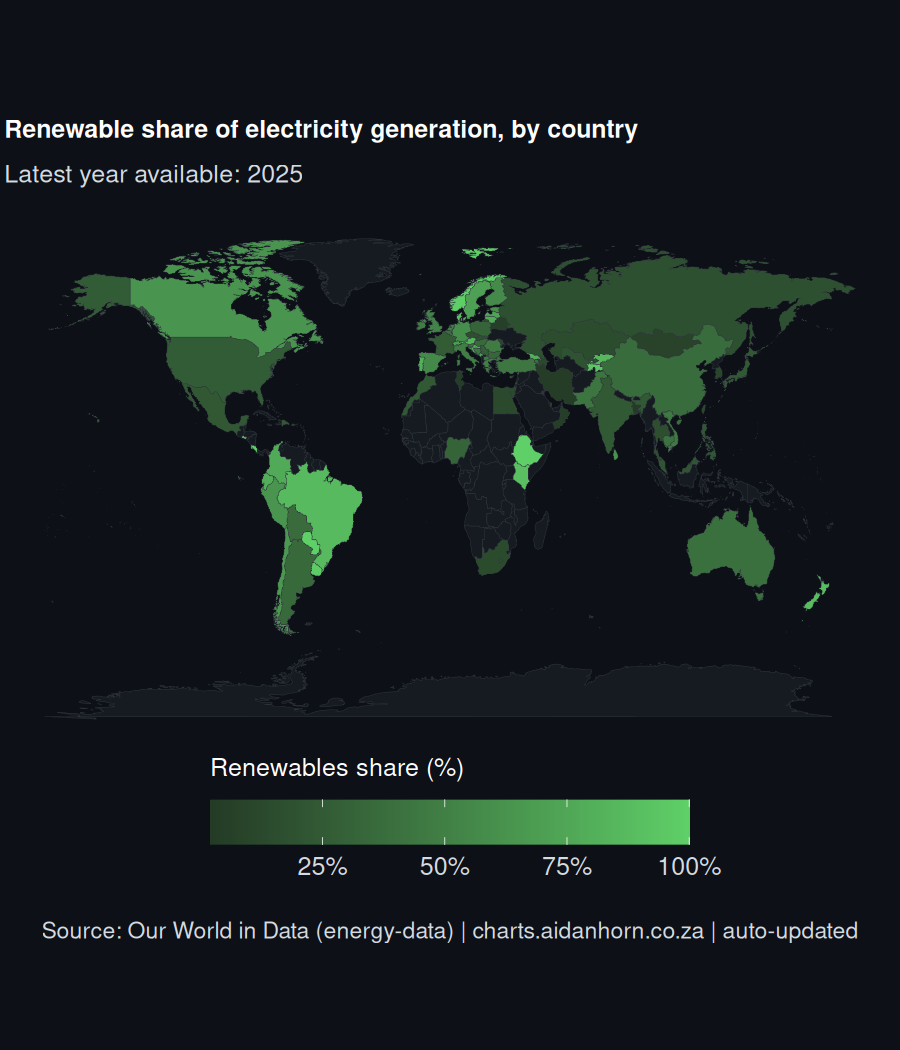
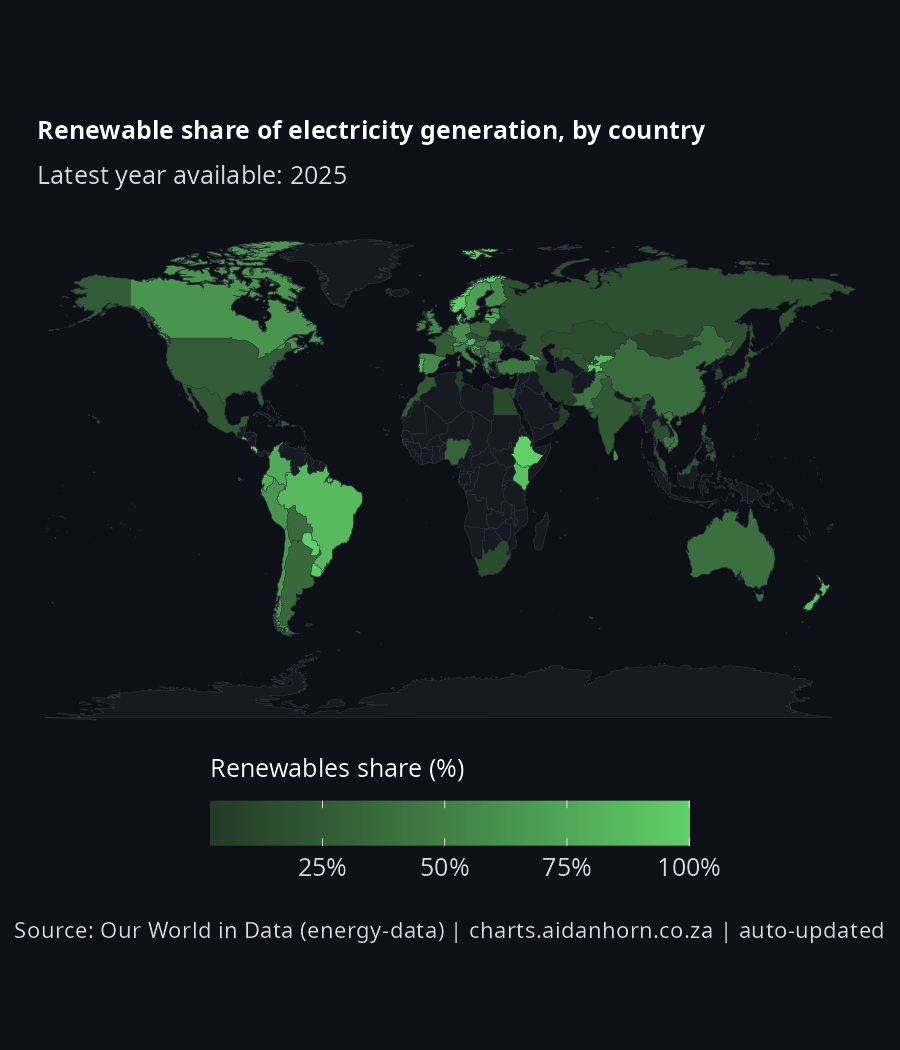
✨ feat(commodities): add 4 new FRED charts
- add soybeans, aluminum, cocoa, and cotton pillars (scripts,
  pages, assets, CI workflow steps)
- move pillar docs into per-section READMEs; slim root README
- extend build_fred_chart prefix/suffix for cotton (cents/lb)
- add build_goldapi_chart helper and gold/silver scripts (not yet
  wired into CI or nav)
- refresh climate and energy chart assets

diff --git a/commodities/aluminum.html b/commodities/aluminum.html
@@ -2,7 +2,7 @@
 <html lang="en">
 <head>
 <meta charset="utf-8">
-<title>Corn — Data Charts</title>
+<title>Aluminum — Data Charts</title>
 <meta name="viewport" content="width=device-width, initial-scale=1">
 <meta name="color-scheme" content="dark">
 <link rel="stylesheet" href="../assets/style.css">
@@ -30,16 +30,16 @@
   <a href="copper.html">Copper</a>
   <a href="natgas.html">Natural Gas</a>
   <a href="wheat.html">Wheat</a>
-  <a href="corn.html" class="active">Corn</a>
+  <a href="corn.html">Corn</a>
   <a href="soybeans.html">Soybeans</a>
-  <a href="aluminum.html">Aluminum</a>
+  <a href="aluminum.html" class="active">Aluminum</a>
   <a href="cocoa.html">Cocoa</a>
   <a href="cotton.html">Cotton</a>
 </div>
 <main>
   <picture>
-    <source media="(max-width: 700px)" srcset="../assets/commodities/corn-portrait.png">
-    <img src="../assets/commodities/corn.png" alt="Corn price chart">
+    <source media="(max-width: 700px)" srcset="../assets/commodities/aluminum-portrait.png">
+    <img src="../assets/commodities/aluminum.png" alt="Aluminum price chart">
   </picture>
 </main>
 </body>

diff --git a/commodities/soybeans.html b/commodities/soybeans.html
@@ -2,7 +2,7 @@
 <html lang="en">
 <head>
 <meta charset="utf-8">
-<title>Corn — Data Charts</title>
+<title>Soybeans — Data Charts</title>
 <meta name="viewport" content="width=device-width, initial-scale=1">
 <meta name="color-scheme" content="dark">
 <link rel="stylesheet" href="../assets/style.css">
@@ -30,16 +30,16 @@
   <a href="copper.html">Copper</a>
   <a href="natgas.html">Natural Gas</a>
   <a href="wheat.html">Wheat</a>
-  <a href="corn.html" class="active">Corn</a>
-  <a href="soybeans.html">Soybeans</a>
+  <a href="corn.html">Corn</a>
+  <a href="soybeans.html" class="active">Soybeans</a>
   <a href="aluminum.html">Aluminum</a>
   <a href="cocoa.html">Cocoa</a>
   <a href="cotton.html">Cotton</a>
 </div>
 <main>
   <picture>
-    <source media="(max-width: 700px)" srcset="../assets/commodities/corn-portrait.png">
-    <img src="../assets/commodities/corn.png" alt="Corn price chart">
+    <source media="(max-width: 700px)" srcset="../assets/commodities/soybeans-portrait.png">
+    <img src="../assets/commodities/soybeans.png" alt="Soybeans price chart">
   </picture>
 </main>
 </body>

diff --git a/commodities/cotton.html b/commodities/cotton.html
@@ -2,7 +2,7 @@
 <html lang="en">
 <head>
 <meta charset="utf-8">
-<title>Corn — Data Charts</title>
+<title>Cotton — Data Charts</title>
 <meta name="viewport" content="width=device-width, initial-scale=1">
 <meta name="color-scheme" content="dark">
 <link rel="stylesheet" href="../assets/style.css">
@@ -30,16 +30,16 @@
   <a href="copper.html">Copper</a>
   <a href="natgas.html">Natural Gas</a>
   <a href="wheat.html">Wheat</a>
-  <a href="corn.html" class="active">Corn</a>
+  <a href="corn.html">Corn</a>
   <a href="soybeans.html">Soybeans</a>
   <a href="aluminum.html">Aluminum</a>
   <a href="cocoa.html">Cocoa</a>
-  <a href="cotton.html">Cotton</a>
+  <a href="cotton.html" class="active">Cotton</a>
 </div>
 <main>
   <picture>
-    <source media="(max-width: 700px)" srcset="../assets/commodities/corn-portrait.png">
-    <img src="../assets/commodities/corn.png" alt="Corn price chart">
+    <source media="(max-width: 700px)" srcset="../assets/commodities/cotton-portrait.png">
+    <img src="../assets/commodities/cotton.png" alt="Cotton price chart">
   </picture>
 </main>
 </body>

diff --git a/commodities/cocoa.html b/commodities/cocoa.html
@@ -2,7 +2,7 @@
 <html lang="en">
 <head>
 <meta charset="utf-8">
-<title>Corn — Data Charts</title>
+<title>Cocoa — Data Charts</title>
 <meta name="viewport" content="width=device-width, initial-scale=1">
 <meta name="color-scheme" content="dark">
 <link rel="stylesheet" href="../assets/style.css">
@@ -30,16 +30,16 @@
   <a href="copper.html">Copper</a>
   <a href="natgas.html">Natural Gas</a>
   <a href="wheat.html">Wheat</a>
-  <a href="corn.html" class="active">Corn</a>
+  <a href="corn.html">Corn</a>
   <a href="soybeans.html">Soybeans</a>
   <a href="aluminum.html">Aluminum</a>
-  <a href="cocoa.html">Cocoa</a>
+  <a href="cocoa.html" class="active">Cocoa</a>
   <a href="cotton.html">Cotton</a>
 </div>
 <main>
   <picture>
-    <source media="(max-width: 700px)" srcset="../assets/commodities/corn-portrait.png">
-    <img src="../assets/commodities/corn.png" alt="Corn price chart">
+    <source media="(max-width: 700px)" srcset="../assets/commodities/cocoa-portrait.png">
+    <img src="../assets/commodities/cocoa.png" alt="Cocoa price chart">
   </picture>
 </main>
 </body>

diff --git a/index.html b/index.html
@@ -32,7 +32,7 @@
     <li><a href="climate/">Climate — global air quality</a></li>
     <li><a href="energy/">Energy — generation mix by country</a></li>
     <li><a href="real-estate/">Real estate — global house-price growth</a></li>
-    <li><a href="commodities/">Commodities — oil, copper, natural gas, wheat, corn</a></li>
+    <li><a href="commodities/">Commodities — oil, copper, natural gas, wheat, corn, soybeans, aluminum, cocoa, cotton</a></li>
   </ul>
   <footer>
     <p>Part of <a href="https://www.aidanhorn.co.za">aidanhorn.co.za</a>.</p>

diff --git a/commodities/natgas.html b/commodities/natgas.html
@@ -31,6 +31,10 @@
   <a href="natgas.html" class="active">Natural Gas</a>
   <a href="wheat.html">Wheat</a>
   <a href="corn.html">Corn</a>
+  <a href="soybeans.html">Soybeans</a>
+  <a href="aluminum.html">Aluminum</a>
+  <a href="cocoa.html">Cocoa</a>
+  <a href="cotton.html">Cotton</a>
 </div>
 <main>
   <picture>

diff --git a/commodities/wheat.html b/commodities/wheat.html
@@ -31,6 +31,10 @@
   <a href="natgas.html">Natural Gas</a>
   <a href="wheat.html" class="active">Wheat</a>
   <a href="corn.html">Corn</a>
+  <a href="soybeans.html">Soybeans</a>
+  <a href="aluminum.html">Aluminum</a>
+  <a href="cocoa.html">Cocoa</a>
+  <a href="cotton.html">Cotton</a>
 </div>
 <main>
   <picture>

diff --git a/commodities/copper.html b/commodities/copper.html
@@ -31,6 +31,10 @@
   <a href="natgas.html">Natural Gas</a>
   <a href="wheat.html">Wheat</a>
   <a href="corn.html">Corn</a>
+  <a href="soybeans.html">Soybeans</a>
+  <a href="aluminum.html">Aluminum</a>
+  <a href="cocoa.html">Cocoa</a>
+  <a href="cotton.html">Cotton</a>
 </div>
 <main>
   <picture>

diff --git a/commodities/index.html b/commodities/index.html
@@ -31,6 +31,10 @@
   <a href="natgas.html">Natural Gas</a>
   <a href="wheat.html">Wheat</a>
   <a href="corn.html">Corn</a>
+  <a href="soybeans.html">Soybeans</a>
+  <a href="aluminum.html">Aluminum</a>
+  <a href="cocoa.html">Cocoa</a>
+  <a href="cotton.html">Cotton</a>
 </div>
 <main>
   <picture>

diff --git a/README.md b/README.md
@@ -2,30 +2,20 @@
 
 Source for [charts.aidanhorn.co.za](https://charts.aidanhorn.co.za) — a small set of automated, self-updating charts across a few genuinely interesting data domains, each pulling from a real public API on its own schedule via GitHub Actions.
 
-Site is one folder per section, each an `index.html` (its default page) plus sibling pages for sections with a sub-nav (Crypto, Commodities): `index.html` (landing page), `crypto/` (index=Bitcoin, `eth.html`/`sol.html`/`xrp.html`/`ltc.html`), `climate/`, `energy/`, `real-estate/`, `commodities/` (index=Oil, `copper.html`/`natgas.html`/`wheat.html`/`corn.html`). `traffic/` still exists but is unlinked from all navigation (deferred, see below). Shared styling in `assets/style.css`, shared dark/high-contrast ggplot2 theme + crypto/FRED chart builders in `scripts/_theme.R`. Every page carries a Google Analytics (gtag.js) tag.
+## Layout
 
-## Pillars
+One folder per section, each an `index.html` (its default page) plus sibling pages for sections with a sub-nav. See each section's own README for its specific pillars/scripts/sources:
 
-| Pillar | Script | Source | Cadence | Status |
-|---|---|---|---|---|
-| Crypto — Bitcoin | [crypto_btc.R](scripts/crypto_btc.R) | [CoinGecko](https://www.coingecko.com/en/api) (free tier) | Daily | Live |
-| Crypto — Ethereum | [crypto_eth.R](scripts/crypto_eth.R) | CoinGecko (free tier) | Daily | Live |
-| Crypto — Solana | [crypto_sol.R](scripts/crypto_sol.R) | CoinGecko (free tier) | Daily | Live |
-| Crypto — XRP | [crypto_xrp.R](scripts/crypto_xrp.R) | CoinGecko (free tier) | Daily | Live |
-| Crypto — Litecoin | [crypto_ltc.R](scripts/crypto_ltc.R) | CoinGecko (free tier) | Daily | Live |
-| Climate (global PM2.5 air quality, grid heatmap) | [climate_air_quality.R](scripts/climate_air_quality.R) | [OpenAQ](https://openaq.org/) v3 API (needs a free `OPENAQ_API_KEY` repo secret) | Daily | Live |
-| Commodities — Oil (Brent crude) | [commodities_oil.R](scripts/commodities_oil.R) | [FRED](https://fred.stlouisfed.org/) official API (needs a free `FRED_API_KEY` repo secret) | Daily | Live |
-| Commodities — Natural Gas (Henry Hub) | [commodities_natgas.R](scripts/commodities_natgas.R) | FRED (DHHNGSP, needs `FRED_API_KEY`) | Daily | Live |
-| Commodities — Copper | [commodities_copper.R](scripts/commodities_copper.R) | FRED (PCOPPUSDM, needs `FRED_API_KEY`) | Monthly | Live |
-| Commodities — Wheat | [commodities_wheat.R](scripts/commodities_wheat.R) | FRED (PWHEAMTUSDM, needs `FRED_API_KEY`) | Monthly | Live |
-| Commodities — Corn | [commodities_corn.R](scripts/commodities_corn.R) | FRED (PMAIZMTUSDM, needs `FRED_API_KEY`) | Monthly | Live |
-| Energy (generation mix by country) | [energy_generation_mix.R](scripts/energy_generation_mix.R) | [Our World in Data](https://github.com/owid/energy-data) energy dataset (Ember's own site blocks programmatic access) | Monthly | Live |
-| Real estate (real house-price growth, major markets) | [real_estate_house_prices.R](scripts/real_estate_house_prices.R) | [OECD](https://data-explorer.oecd.org/) Analytical House Prices Indicators (SDMX REST API, no key) | Quarterly | Live |
-| Traffic (global congestion) | _not built_ | [TomTom Traffic Index](https://www.tomtom.com/traffic-index/) | Annual | Deferred, unlinked from nav — ranking data is client-rendered with no accessible free endpoint found yet; lowest priority pillar |
+- [crypto/](crypto/README.md) — Bitcoin, Ethereum, Solana, XRP, Litecoin
+- [climate/](climate/README.md) — global air quality
+- [energy/](energy/README.md) — generation mix by country
+- [real-estate/](real-estate/README.md) — global house-price growth
+- [commodities/](commodities/README.md) — oil, copper, natural gas, wheat, corn
+- [traffic/](traffic/README.md) — deferred, unlinked from nav
 
-All data sources are free/public — no paid feeds, though FRED and OpenAQ need a (free, registered) API key stored as a repo secret. See `.github/workflows/update-charts.yml` for the scheduling (crypto/climate/oil/natural gas run daily; energy/real-estate/copper/wheat/corn run monthly; `workflow_dispatch` runs everything for manual testing).
+Shared styling in `assets/style.css`, shared dark/high-contrast ggplot2 theme + crypto/FRED chart-builder helpers in `scripts/_theme.R`. Every page carries a Google Analytics (gtag.js) tag.
 
-Note on gold/silver: FRED's own LBMA gold/silver series are discontinued; Stooq now requires a JS proof-of-work challenge that a script can't solve headless; the World Bank's Pink Sheet data uses unstable, dated document URLs unsuitable for reliable automation. Not pursued further for now.
+All data sources are free/public — no paid feeds, though FRED and OpenAQ need a (free, registered) API key stored as a repo secret. See `.github/workflows/update-charts.yml` for the scheduling and which secrets each step needs.
 
 Pages with a sub-nav (Crypto, Commodities) use a shorter portrait chart height (`port_h`) than single-page pillars, since the extra sub-nav bar leaves less vertical room on mobile before scrolling would be needed.
 

diff --git a/commodities/README.md b/commodities/README.md
@@ -1,0 +1,19 @@
+# Commodities
+
+| Pillar | Script | Source | Cadence |
+|---|---|---|---|
+| Oil (Brent crude) | [commodities_oil.R](../scripts/commodities_oil.R) | FRED (DCOILBRENTEU) | Daily |
+| Natural Gas (Henry Hub) | [commodities_natgas.R](../scripts/commodities_natgas.R) | FRED (DHHNGSP) | Daily |
+| Copper | [commodities_copper.R](../scripts/commodities_copper.R) | FRED (PCOPPUSDM) | Monthly |
+| Wheat | [commodities_wheat.R](../scripts/commodities_wheat.R) | FRED (PWHEAMTUSDM) | Monthly |
+| Corn | [commodities_corn.R](../scripts/commodities_corn.R) | FRED (PMAIZMTUSDM) | Monthly |
+| Soybeans | [commodities_soybeans.R](../scripts/commodities_soybeans.R) | FRED (PSOYBUSDM) | Monthly |
+| Aluminum | [commodities_aluminum.R](../scripts/commodities_aluminum.R) | FRED (PALUMUSDM) | Monthly |
+| Cocoa | [commodities_cocoa.R](../scripts/commodities_cocoa.R) | FRED (PCOCOUSDM) | Monthly |
+| Cotton | [commodities_cotton.R](../scripts/commodities_cotton.R) | FRED (PCOTTINDUSDM) | Monthly |
+
+All via [FRED](https://fred.stlouisfed.org/)'s official API (`api.stlouisfed.org`, needs a free `FRED_API_KEY` repo secret — the undocumented `fredgraph.csv` scrape endpoint was dropped in favour of this), through the shared `build_fred_chart()` helper in [../scripts/_theme.R](../scripts/_theme.R). Copper/Wheat/Corn/Soybeans/Aluminum/Cocoa are all IMF global commodity prices (USD/tonne) under FRED's `P<CODE>USDM` naming family; Cotton's series (`PCOTTINDUSDM`) is priced in US cents/lb instead — confirmed via the series metadata, not assumed — so `build_fred_chart()` takes a `value_prefix`/`value_suffix` pair to render its axis/subtitle correctly.
+
+Pages here carry a Commodities sub-nav, so their portrait charts use a shorter height (`port_h = 6.5`) than single-page pillars.
+
+**Gold/silver**: FRED's own LBMA series are discontinued, and free metals-price APIs turned out to be a minefield — MetalpriceAPI's free tier caps historical backfill at 5 days, gold-api.com's "history" endpoint (despite docs suggesting daily OHLC) only ever returns one max-price-per-calendar-year, and GoldAPI.io's real per-date LBMA history (confirmed back to 1968) charges against a monthly quota far smaller than advertised — a plain 8-year monthly backfill exhausted it in one run. In progress: `commodities_gold.R`/`commodities_silver.R` exist and use a `build_goldapi_chart()` helper (in `_theme.R`) that accumulates one CSV row per date into `data/gold_usd.csv`/`data/silver_usd.csv` rather than re-fetching full history each run, currently set to a shallow quarterly/2-year backfill while the real GoldAPI.io quota gets confirmed — not yet wired into the CI workflow or given HTML pages.

diff --git a/crypto/README.md b/crypto/README.md
@@ -1,0 +1,13 @@
+# Crypto
+
+| Pillar | Script | Source | Cadence |
+|---|---|---|---|
+| Bitcoin | [crypto_btc.R](../scripts/crypto_btc.R) | [CoinGecko](https://www.coingecko.com/en/api) (free tier) | Daily |
+| Ethereum | [crypto_eth.R](../scripts/crypto_eth.R) | CoinGecko (free tier) | Daily |
+| Solana | [crypto_sol.R](../scripts/crypto_sol.R) | CoinGecko (free tier) | Daily |
+| XRP | [crypto_xrp.R](../scripts/crypto_xrp.R) | CoinGecko (free tier) | Daily |
+| Litecoin | [crypto_ltc.R](../scripts/crypto_ltc.R) | CoinGecko (free tier) | Daily |
+
+All fetch/plot logic shares `build_crypto_chart()` in [../scripts/_theme.R](../scripts/_theme.R). CoinGecko's free tier caps daily-interval history at 365 days. XRP uses 4 decimal places (`price_digits`) since it trades well under $5 — whole-dollar formatting would round it to something meaningless like "$1"; the rest use whole dollars.
+
+Pages here carry a Crypto sub-nav, so their portrait charts use a shorter height (`port_h = 6.5`) than single-page pillars.
